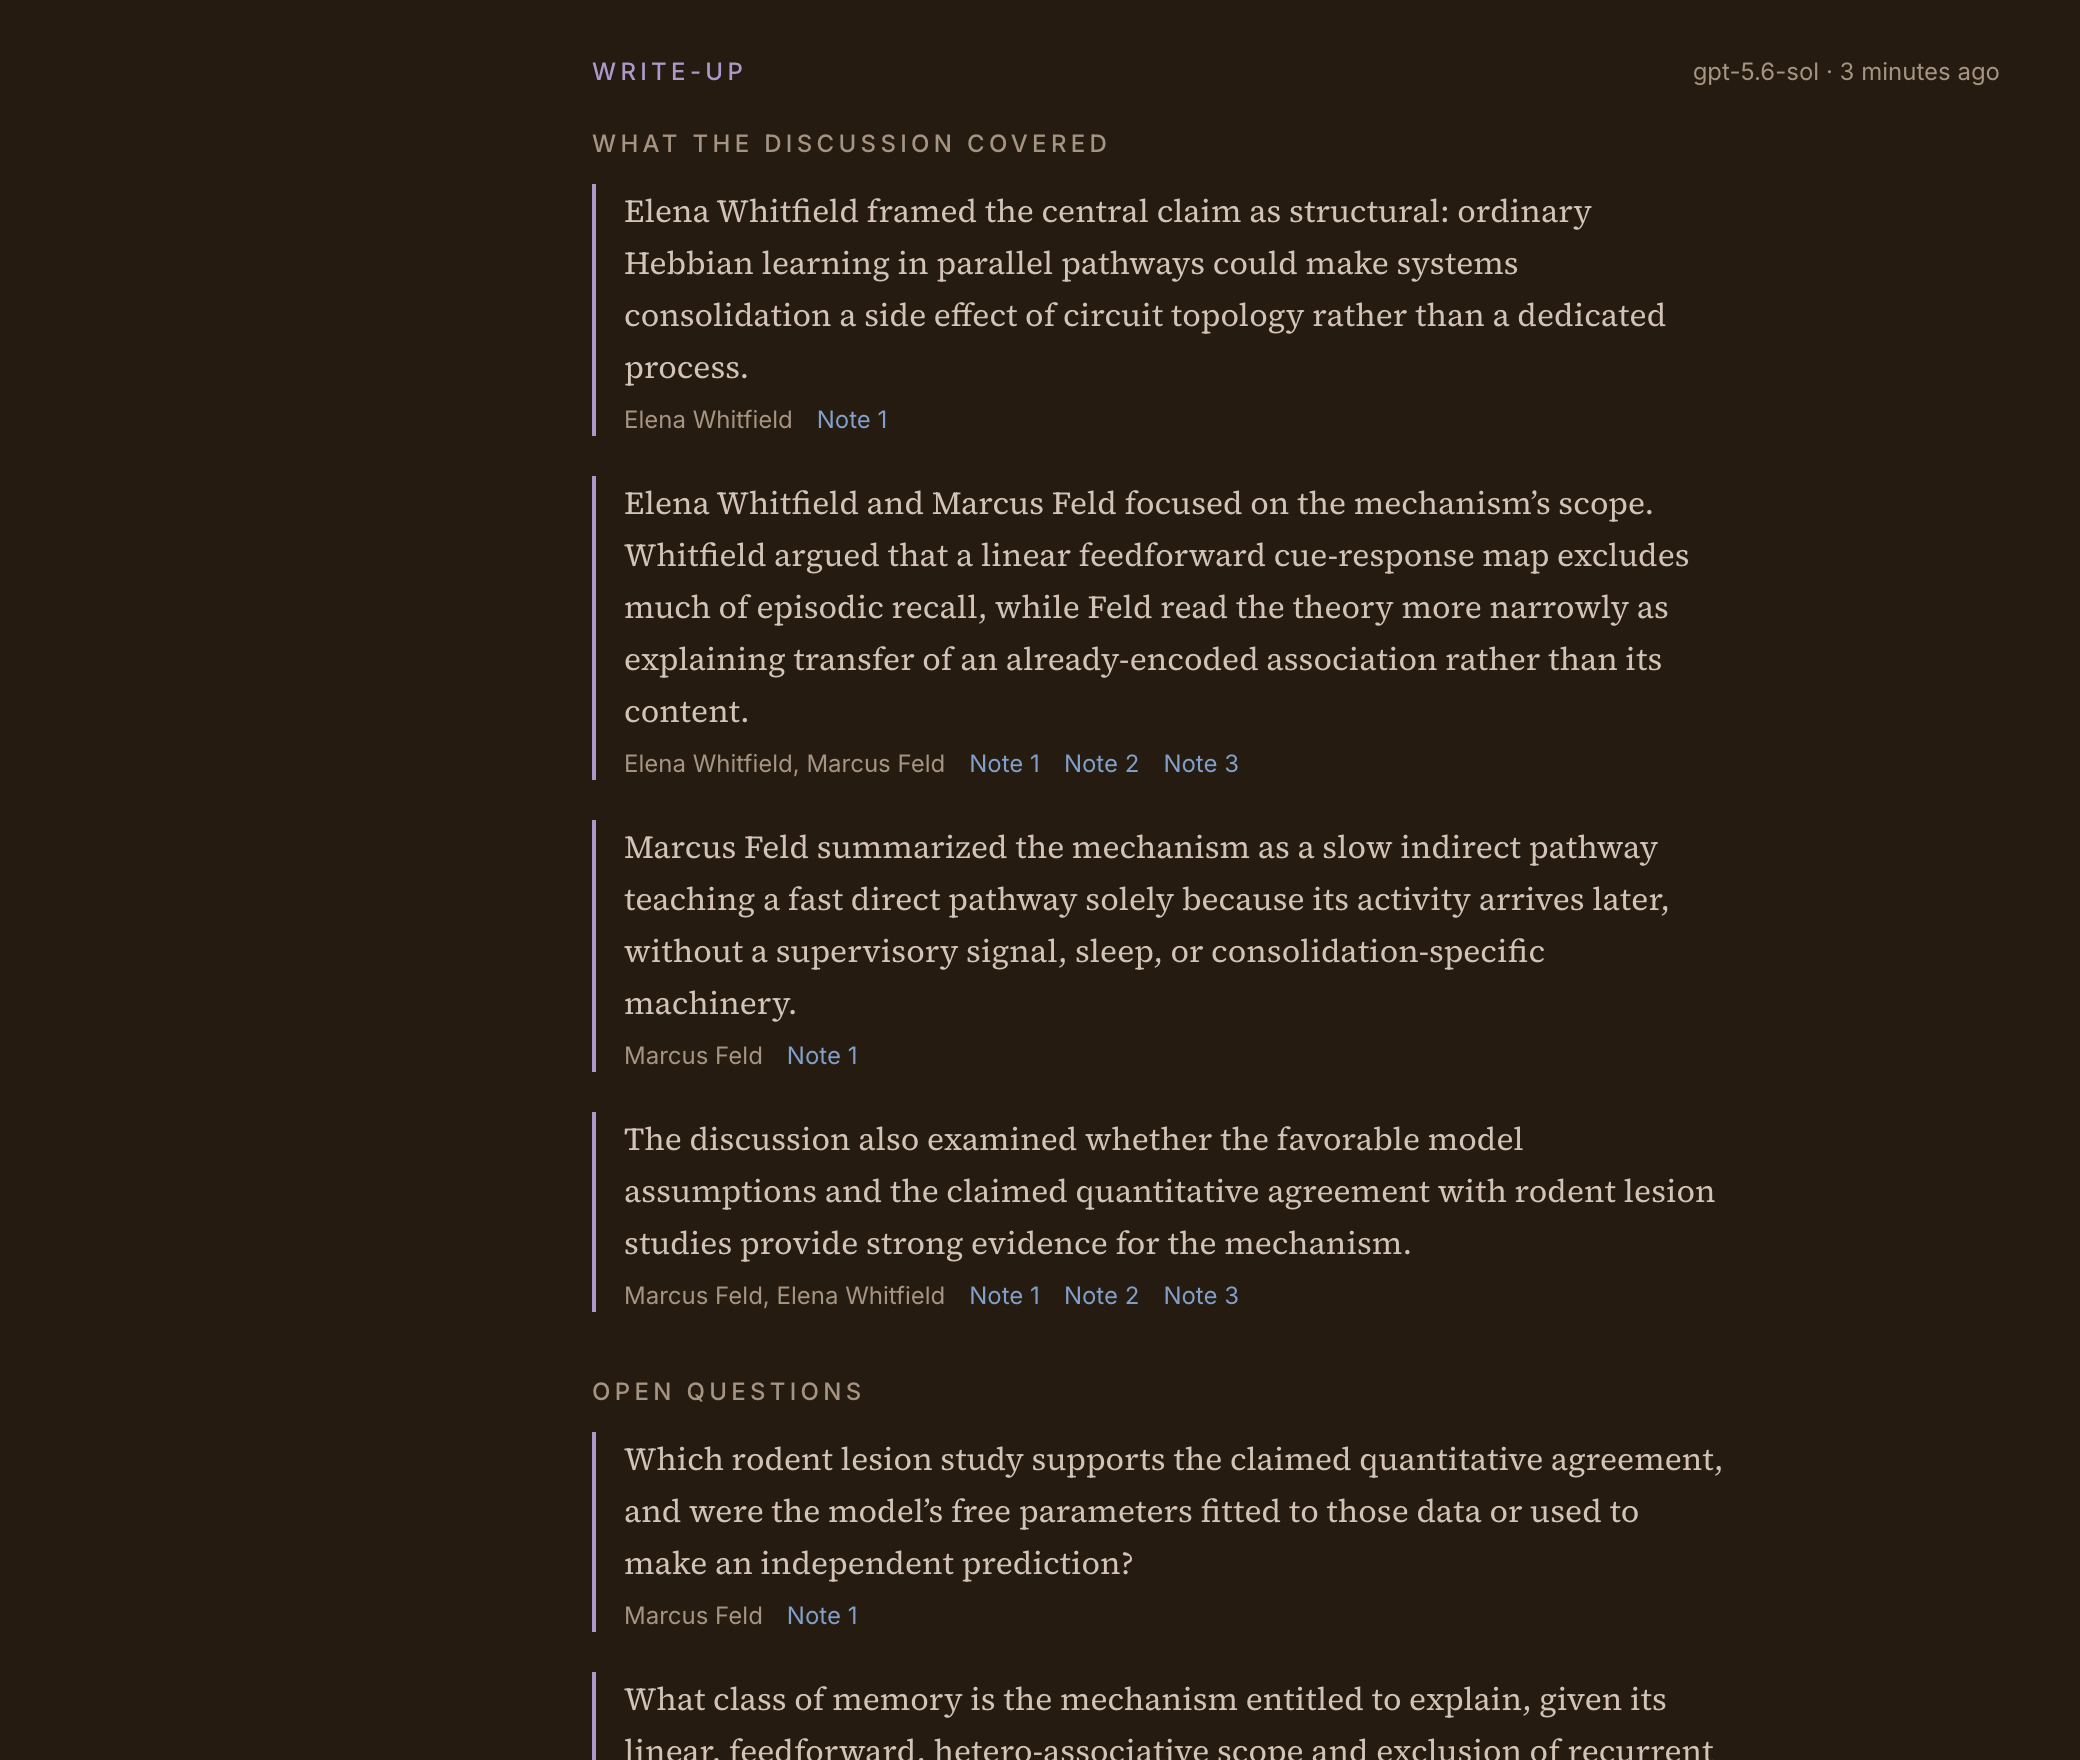
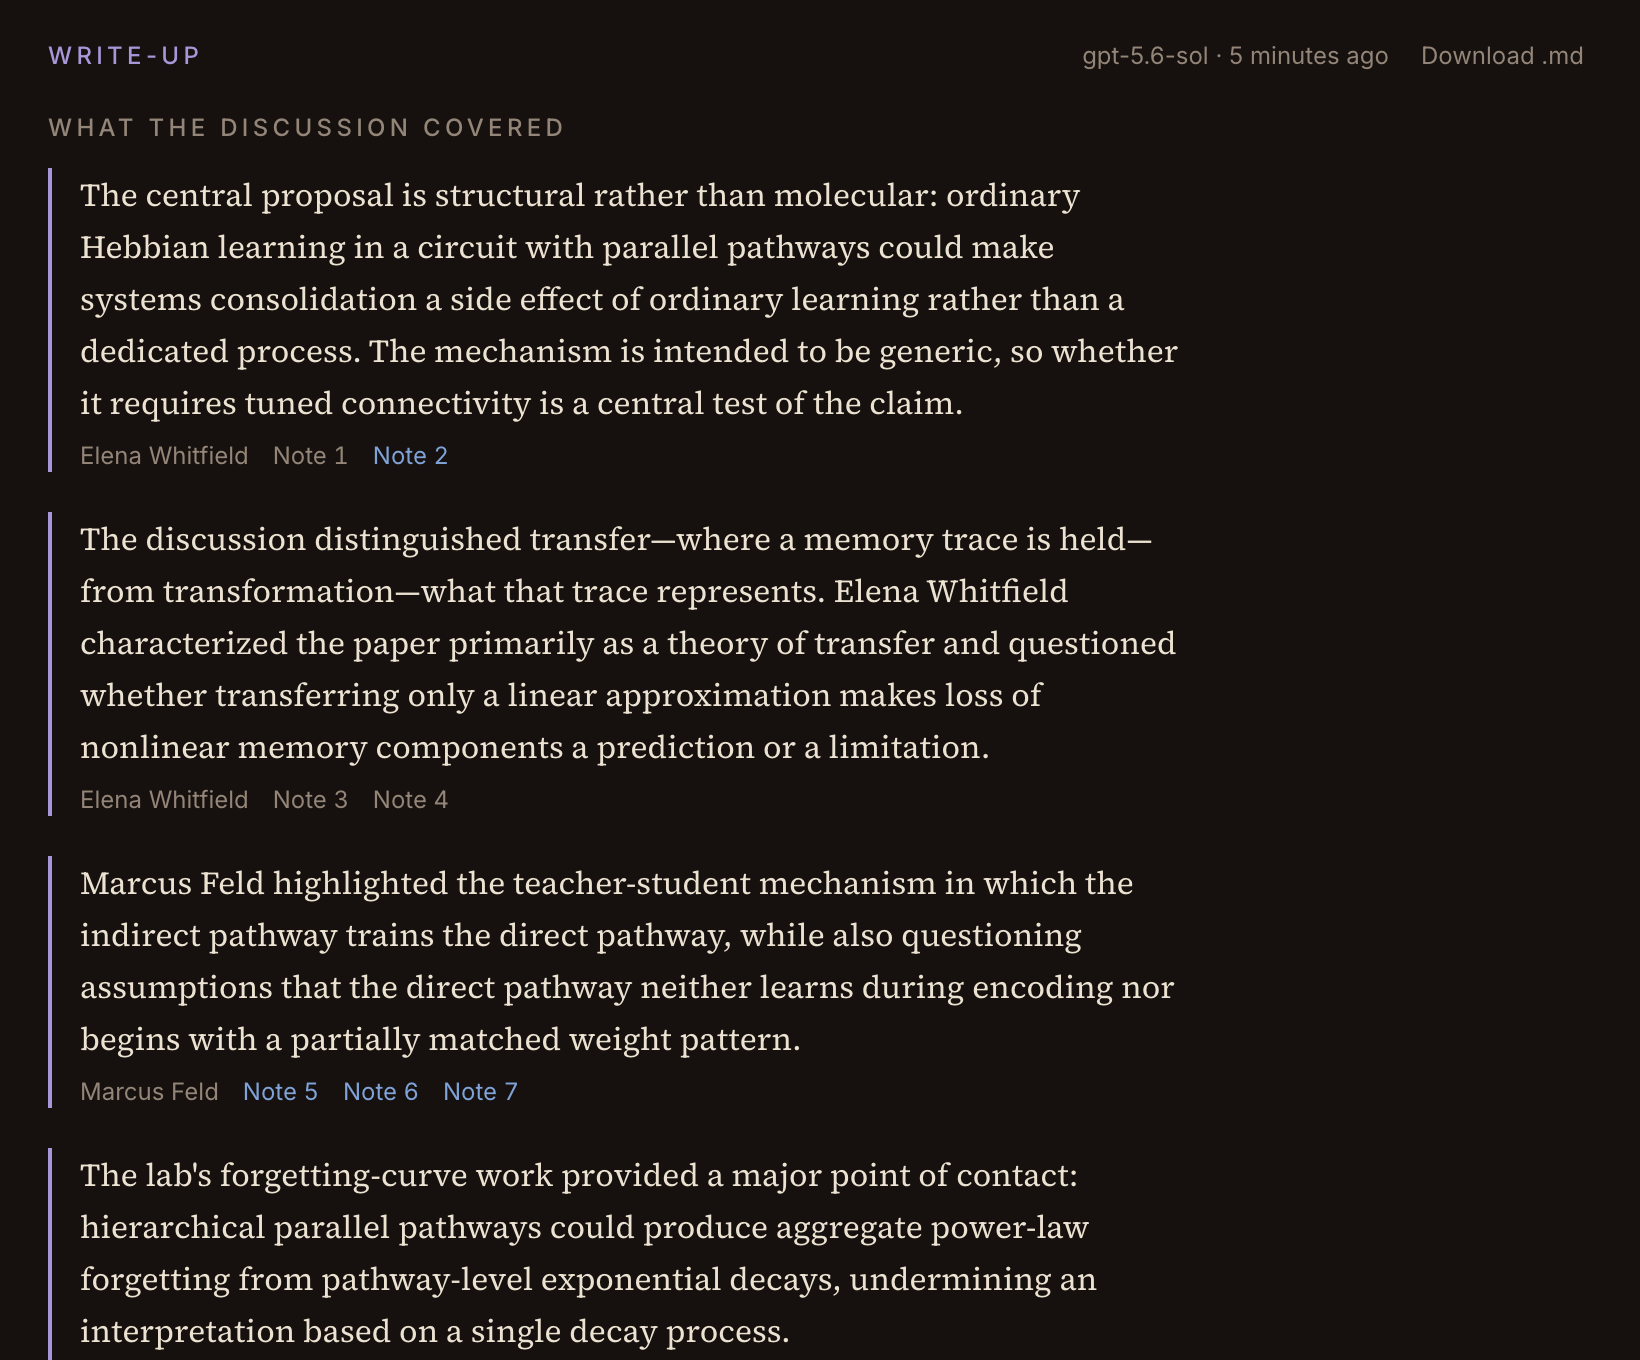
README: the figures are the product again
Four shots predated the feel overhaul and showed its bugs — an unanchored
rail, a composer off the bottom of the screen, hyphenation debris in the
board quotes, and a write-up whose citations restart at Note 1 in every
paragraph. The landing shot is untouched; the marketing page has not moved.

Changed region(s): [[0.0311, 0.0309, 0.8396, 1.0], [0.653, 0.0309, 0.964, 0.0618], [0.0311, 0.0309, 0.1244, 0.0618]]

diff --git a/README.md b/README.md
@@ -32,7 +32,7 @@
 
 Margin is where a research group runs its journal club. A lab brings in a paper by DOI, annotates it together in a shared margin before the meeting, and runs the discussion off the passages it flagged. Every note carries a type — hypothesis, method note, critique, definition, connection, open question — so the reading leaves a structured record instead of a drawer of highlights, and that record is what the next session, the next member, and the write-up are built from. The model layer only ever quotes and attributes what the lab already said.
 
-The product stays in its warm brown dark mode throughout:
+The product opens in its warm brown dark mode and stays there unless you say otherwise — the rail carries an auto/light/dark switch, and dark is what a first visit gets whatever the machine underneath asks for:
 
 <p align="center">
   <img src="docs/assets/screenshots/landing-dark.png" alt="Margin landing page in warm dark mode, with the first annotation visible" width="100%">
@@ -57,7 +57,7 @@ The product stays in its warm brown dark mode throughout:
 <p align="center">
   <img src="docs/assets/screenshots/synthesis.png" alt="Margin session write-up in warm dark mode, with attribution and citations" width="72%">
 </p>
-<p align="center"><em>Fig. 5 — The write-up: every claim is quoted from an annotation and attributed to its author.</em></p>
+<p align="center"><em>Fig. 5 — The write-up: every claim carries the notes it was drawn from and the members who wrote them.</em></p>
 
 ## First Session
 
